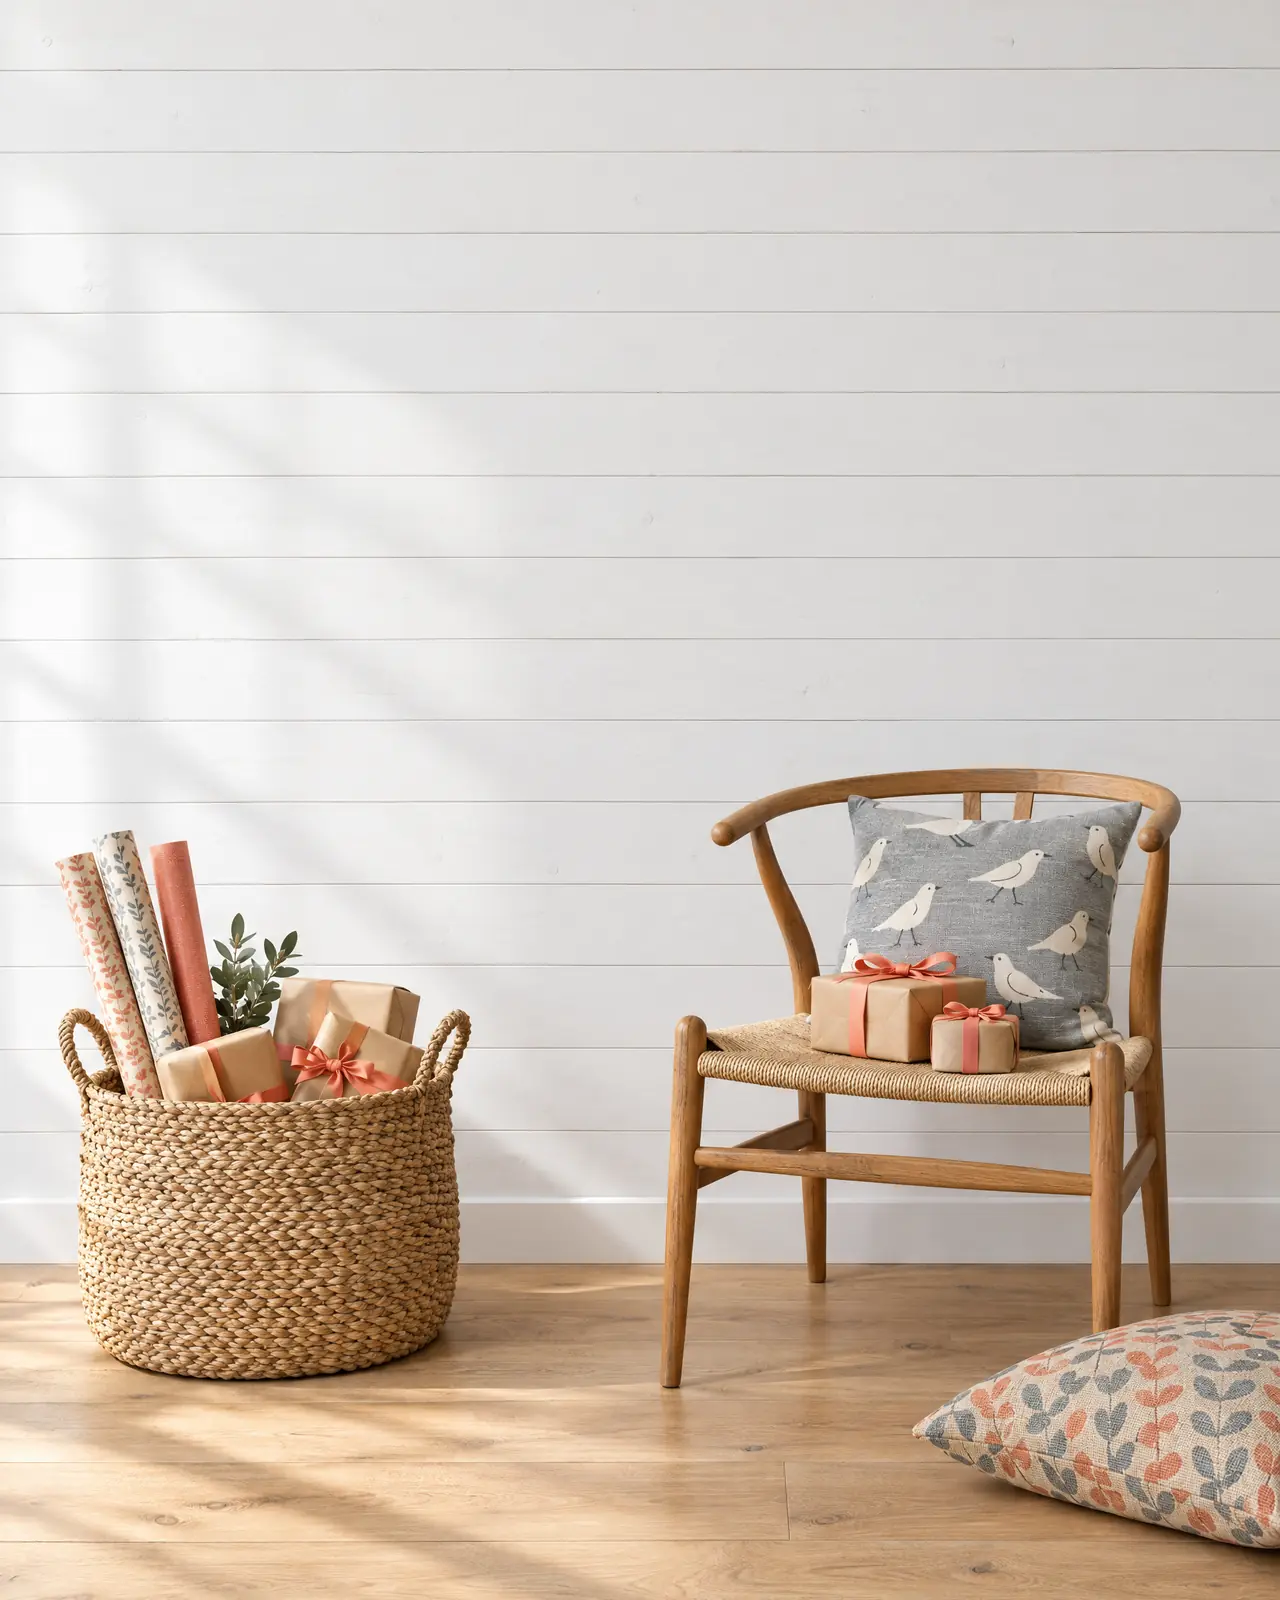
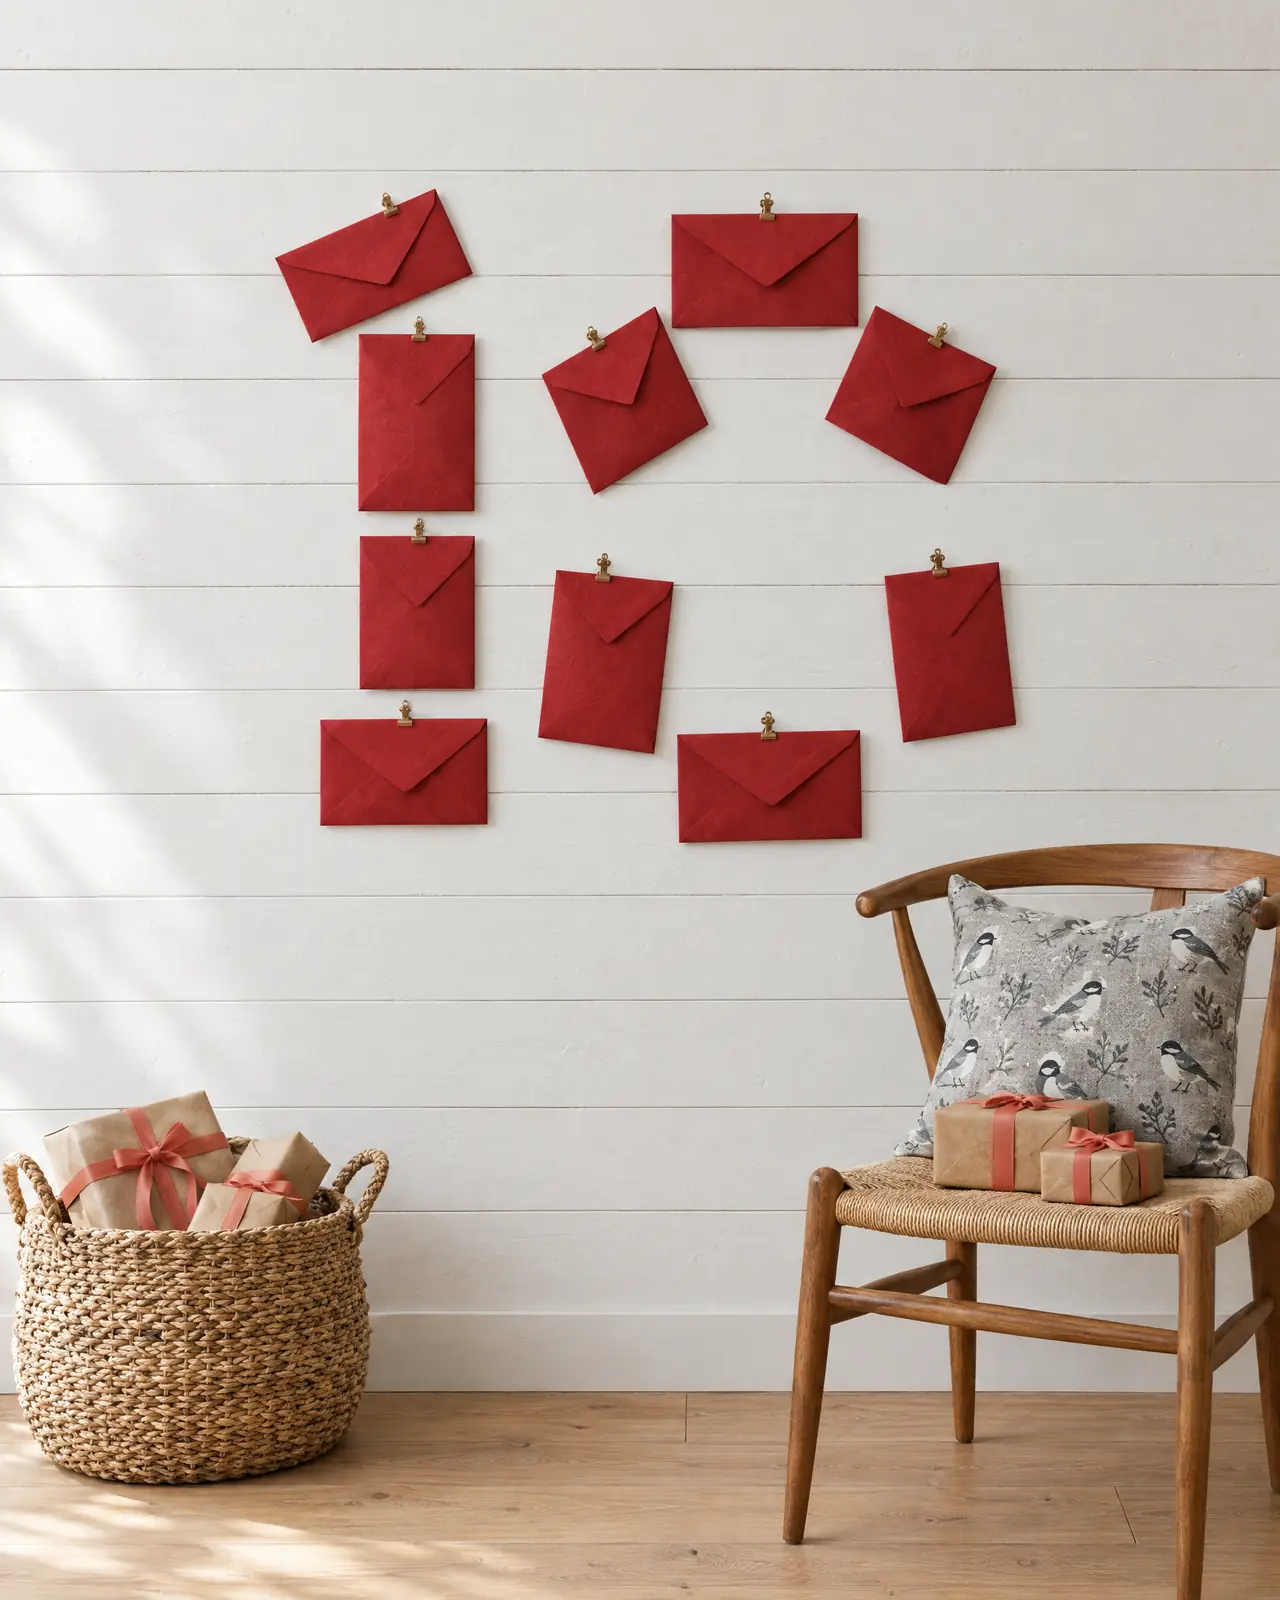
Rebuild anniversary envelopes from a real photo, drop demo note
Ten real red envelopes with brass clips form the number 10 in a
Higgsfield photo; code only adds numbers, today's glow, a card pulled
out of each opened envelope and a faded look for missed ones. Remove the
"switch to mobile" note under the demo, the toggle says it already.

diff --git a/index.html b/index.html
@@ -553,40 +553,31 @@
   @keyframes vzkDone { from { opacity: 0; transform: translateY(10px); } }
   .demo .scene.vzk-scene.finale .vzk-head { opacity: 0; }
   @media (prefers-reduced-motion: reduce) { .demo .vzk-col.just, .demo .vzk-all, .demo .vzk-pol.today, .demo .vzk.just, .demo .vzk-done { animation: none; } }
-  /* téma: Obálky ve tvaru výročí (stěna z Higgsfieldu, obálky v kódu) */
-  .demo[data-theme="obalky"] { --d-bg: #f6f3ee; --d-ink: #2b2523; --d-ink-2: #6d625c; --d-today: #d9343a; --d-today-ink: #fff; --d-btn: #d9343a; --d-btn-ink: #fff; --d-font: 'Inter', 'Inter Fallback', Arial, sans-serif; --d-card: #fff; --d-card-line: #e7e0d6; }
+  /* téma: Deset let, deset obálek (fotka obálek z Higgsfieldu, otevírání v kódu) */
+  .demo[data-theme="obalky"] { --d-bg: #f6f3ee; --d-ink: #2b2523; --d-ink-2: #6d625c; --d-today: #b3262c; --d-today-ink: #fff; --d-btn: #b3262c; --d-btn-ink: #fff; --d-font: 'Inter', 'Inter Fallback', Arial, sans-serif; --d-card: #fff; --d-card-line: #e7e0d6; }
   .demo[data-theme="obalky"] .d-title { font-weight: 900; letter-spacing: -0.03em; }
   .demo[data-theme="obalky"] .d-btn { border-radius: 100px; }
   .demo[data-theme="obalky"] .d-finale { top: auto; bottom: 12px; background: rgba(43,37,35,.82); }
-  .demo .scene.obl-scene { aspect-ratio: 4 / 5; max-width: 480px; background: #ece8e1 url('img/obalky-stena.webp') center / cover no-repeat; perspective: 1400px; }
-  .demo .obl { --e: #d9343a; position: absolute; padding: 0; border: 0; background: none; font: inherit; rotate: var(--rot); filter: drop-shadow(0 6px 6px rgba(60,30,20,.28)); transition: translate .2s ease; cursor: pointer; transform-style: preserve-3d; }
-  .demo .obl:hover { translate: 0 -3px; }
-  .demo .obl > span { position: absolute; display: block; }
-  .demo .obl-back { inset: 0; border-radius: 3px; background: color-mix(in srgb, var(--e) 82%, #000); }
-  .demo .obl-card { left: 8%; right: 8%; top: 10%; bottom: 8%; border-radius: 2px; background: #fffaf3; display: grid !important; place-items: center; color: var(--e); transition: translate .55s cubic-bezier(.3,1.4,.5,1) .25s; }
-  .demo .obl-card svg { width: 46%; max-width: 30px; height: auto; }
-  .demo .obl-front { inset: 0; border-radius: 3px; background: linear-gradient(160deg, color-mix(in srgb, var(--e) 92%, #fff), var(--e)); clip-path: polygon(0 0, 50% 46%, 100% 0, 100% 100%, 0 100%); }
-  .demo .obl-front::after { content: ""; position: absolute; inset: 0; background: linear-gradient(to top right, transparent calc(50% - 1px), rgba(0,0,0,.1) 50%, transparent calc(50% + 1px)) left bottom / 50% 54% no-repeat, linear-gradient(to top left, transparent calc(50% - 1px), rgba(0,0,0,.1) 50%, transparent calc(50% + 1px)) right bottom / 50% 54% no-repeat; }
-  .demo .obl-flap { left: 0; right: 0; top: 0; height: 62%; background: linear-gradient(180deg, color-mix(in srgb, var(--e) 88%, #fff), color-mix(in srgb, var(--e) 94%, #000)); clip-path: polygon(0 0, 100% 0, 50% 100%); transform-origin: 50% 0; transition: transform .5s ease; z-index: 2; }
-  .demo .obl.sirka .obl-flap { height: 70%; }
-  .demo .obl-n { right: 8%; bottom: 7%; z-index: 3; color: #fff; font-family: 'Inter', Arial, sans-serif; font-size: clamp(13px, 1.8vw, 19px); font-weight: 800; line-height: 1; text-shadow: 0 1px 2px rgba(0,0,0,.2); }
-  .demo .obl-clip { left: 50%; top: -6px; z-index: 4; width: 9px; height: 22px; margin-left: -4.5px; border: 2px solid #b89a52; border-radius: 6px; }
-  .demo .obl.open .obl-flap { transform: rotateX(180deg); z-index: 0; filter: brightness(.82); }
-  .demo .obl.open .obl-card { translate: 0 -42%; }
-  .demo .obl.open .obl-clip { display: none; }
-  .demo .obl.locked { --e: #d9343a; }
-  .demo .obl.missed { --e: #c9b3ad; filter: drop-shadow(0 3px 4px rgba(60,30,20,.15)); }
-  .demo .obl.missed .obl-n { text-decoration: line-through; color: #f4ece8; }
-  .demo .obl.today { --e: #e6453b; animation: oblWiggle 2.4s ease-in-out infinite; filter: drop-shadow(0 0 14px rgba(255,190,60,.9)) drop-shadow(0 6px 6px rgba(60,30,20,.3)); }
-  .demo .obl.today .obl-clip { border-color: #e4bd57; }
-  @keyframes oblWiggle { 0%, 70%, 100% { rotate: var(--rot); } 76% { rotate: calc(var(--rot) - 4deg); } 82% { rotate: calc(var(--rot) + 4deg); } 88% { rotate: calc(var(--rot) - 2deg); } 94% { rotate: var(--rot); } }
-  .demo .obl.just .obl-flap { animation: oblFlap .5s ease both; }
-  @keyframes oblFlap { from { transform: rotateX(0); } to { transform: rotateX(180deg); } }
-  .demo .obl.just .obl-card { animation: oblCard .6s cubic-bezier(.3,1.4,.5,1) .35s both; }
-  @keyframes oblCard { from { translate: 0 0; } to { translate: 0 -42%; } }
-  .demo .obl-done { position: absolute; left: 50%; top: 47%; z-index: 5; padding: 8px 22px; translate: -50% 0; rotate: -3deg; background: rgba(227,208,168,.92); color: #5a4126; font-family: 'Inter', Arial, sans-serif; font-size: clamp(14px, 2vw, 20px); font-weight: 800; letter-spacing: .02em; box-shadow: 0 3px 8px rgba(0,0,0,.15); clip-path: polygon(2% 0, 98% 4%, 100% 100%, 0 96%); animation: oblDone .6s .4s ease both; }
+  .demo .scene.obl-scene { aspect-ratio: 4 / 5; max-width: 480px; background: #ece8e1 url('img/obalky-stena.webp') center / cover no-repeat; }
+  .demo .obl { position: absolute; z-index: 2; padding: 0; border: 0; border-radius: 4px; background: transparent; font: inherit; cursor: pointer; transition: box-shadow .2s ease; }
+  .demo .obl:hover { box-shadow: 0 0 0 2px rgba(255,255,255,.85), 0 8px 18px rgba(60,20,10,.25); }
+  .demo .obl-n { position: absolute; right: 10%; bottom: 10%; display: flex; align-items: center; gap: 3px; color: #fff; font-family: 'Inter', Arial, sans-serif; font-size: clamp(12px, 1.7vw, 17px); font-weight: 800; line-height: 1; text-shadow: 0 1px 3px rgba(0,0,0,.35); rotate: var(--rot); }
+  .demo .obl-n svg { width: 11px; height: 11px; opacity: .85; }
+  .demo .obl.missed { backdrop-filter: grayscale(1) brightness(1.75) contrast(.6); -webkit-backdrop-filter: grayscale(1) brightness(1.75) contrast(.6); }
+  .demo .obl.missed .obl-n { text-decoration: line-through; opacity: .8; }
+  .demo .obl.today { background: radial-gradient(closest-side, rgba(255,214,120,.55), rgba(255,214,120,0)); box-shadow: 0 0 0 2px #fff, 0 0 0 4px #b3262c, 0 0 28px 8px rgba(255,210,110,.75); animation: oblGlow 1.8s ease-in-out infinite; }
+  .demo .obl.today::after { content: "Dnes"; position: absolute; left: 50%; bottom: calc(100% + 9px); translate: -50% 0; padding: 3px 8px; border-radius: 4px; background: #b3262c; color: #fff; font-family: 'Inter', Arial, sans-serif; font-size: 10px; font-weight: 800; letter-spacing: .1em; text-transform: uppercase; }
+  @keyframes oblGlow { 50% { box-shadow: 0 0 0 2px #fff, 0 0 0 4px rgba(179,38,44,.5), 0 0 12px 3px rgba(255,210,110,.45); } }
+  /* opened: a cream card pulled halfway out of the envelope */
+  .demo .obl-card { position: absolute; left: 14%; right: 14%; top: 8%; height: 78%; rotate: var(--rot); translate: 0 -56%; z-index: -1; clip-path: inset(-20% -20% 46% -20%); display: grid; place-items: center; border-radius: 2px; background: #fffaf2; box-shadow: 0 4px 10px rgba(0,0,0,.18); }
+  .demo .obl-card > span { display: grid; place-items: center; width: 24px; height: 24px; border-radius: 50%; background: #b3262c; color: #fff; }
+  .demo .obl-card svg { width: 13px; height: 13px; }
+  .demo .obl.open { z-index: 1; }
+  .demo .obl.just .obl-card { animation: oblPull .7s cubic-bezier(.3,1.4,.5,1) both; }
+  @keyframes oblPull { from { translate: 0 0; opacity: 0; } 30% { opacity: 1; } to { translate: 0 -56%; } }
+  .demo .obl-done { position: absolute; left: 50%; top: 56%; z-index: 5; padding: 8px 22px; translate: -50% 0; rotate: -3deg; background: rgba(227,208,168,.94); color: #5a4126; font-family: 'Inter', Arial, sans-serif; font-size: clamp(14px, 2vw, 20px); font-weight: 800; letter-spacing: .02em; box-shadow: 0 3px 8px rgba(0,0,0,.15); clip-path: polygon(2% 0, 98% 4%, 100% 100%, 0 96%); animation: oblDone .6s .4s ease both; }
   @keyframes oblDone { from { opacity: 0; translate: -50% -10px; } }
-  @media (prefers-reduced-motion: reduce) { .demo .obl.today, .demo .obl.just .obl-flap, .demo .obl.just .obl-card, .demo .obl-done { animation: none; } .demo .obl-flap, .demo .obl-card { transition: none; } }
+  @media (prefers-reduced-motion: reduce) { .demo .obl.today, .demo .obl.just .obl-card, .demo .obl-done { animation: none; } }
 
   /* téma: Sněhulák a sobi (vymyšlené, kreslené) */
   .demo[data-theme="snehulak"] { --d-bg: #0f3d2e; --d-ink: #f4f7ff; --d-ink-2: #bfd5c8; --d-today: #ffd21f; --d-today-ink: #132747; --d-btn: #DA2A49; --d-btn-ink: #fff; --d-font: 'Inter', 'Inter Fallback', Arial, sans-serif; --d-card: rgba(255,255,255,.08); --d-card-line: rgba(255,255,255,.16); }
@@ -1414,7 +1405,6 @@
     <div class="d-reveal" id="demo-reveal" hidden></div>
   </div>
   </div>
-  <p class="demo-note">Celý kalendář je responzivní: přepněte na Mobil a uvidíte ho tak, jak ho uvidí zákazník v telefonu.</p>
 
 
 </section>
@@ -1938,22 +1928,23 @@
     if (finale) h += '<div class="vzk-done" aria-hidden="true"><b>24.–26. 9.</b><span>Velký výprodej pokladů ze showroomu a skladu</span></div>';
     return h + '<button type="button" class="d-finale" data-review-id="demo-finale">' + T.finale + '</button></div>';
   }
-  // Obálky ve tvaru výročí: stěna z Higgsfieldu, obálky v kódu poskládané do čísla 10 (scéna 1000 × 1250)
-  var OBALKY = [[188, 112, 102, 66, -16], [304, 77, 94, 110, 2], [492, 70, 246, 88, -1], [449, 176, 98, 139, 1.5], [691, 176, 98, 139, -2], [304, 201, 94, 146, -1], [449, 329, 98, 124, -1], [691, 329, 98, 124, 2], [304, 362, 94, 175, 1], [492, 464, 246, 95, -1]];
+  // Obálky ve tvaru výročí: fotka z Higgsfieldu, na stěně 10 skutečných obálek tvoří číslo 10; otevírání v kódu
+  // [left, top, width, height v %, natočení obálky ve stupních]
+  var OBALKY = [[21.25, 11.8, 15.6, 9.4, -20], [28, 20.7, 9.1, 11.3, 0], [28, 33.3, 9.1, 9.7, 0], [25, 44.7, 13.1, 6.9, 0], [52.5, 13, 14.5, 7.5, 0], [64.5, 19.3, 13.2, 10.7, 25], [69.1, 35, 10.1, 11.3, -5], [53, 45.5, 14.2, 7.1, -2], [42.1, 35.5, 10.4, 11.5, 4], [42.5, 19.3, 12.6, 11.5, -25]];
   DARKY.obalky = seznam([['sleva', 'Výroční sleva 10 %'], ['doprava', 'Doprava zdarma'], ['darek', 'Dárek k objednávce'], ['sleva', 'Sleva 20 % na bestsellery'], ['akce', 'Výroční akce 2 + 1'], ['prodejna', 'Poradenství zdarma na prodejně'], ['sleva', 'Sleva 15 % na novinky'], ['doprava', 'Doprava zdarma'], ['darek', 'Překvapení pro věrné zákazníky'], ['sleva', 'Sleva 30 % na celý nákup']], 10, 'VY');
-  TEMATA.obalky = { dni: 10, dnes: 6, layout: 'obalky', top: '', eyebrow: 'Výročí e‑shopu · 10 let', t: 'Deset let, deset obálek', l: 'Na' + NB + 'stěně visí obálky poskládané do' + NB + 'čísla našeho výročí. Každý den otevřete jednu. Čím větší obálka, tím větší dárek. Ta největší čeká desátý den.', btn: 'Otevřít dnešní obálku', den: 'obálka', tip: 'Klikněte na' + NB + 'obálku, která se' + NB + 'třese, a' + NB + 'otevřete ji.', finale: 'Ukázat 10. den: všechny obálky', odkryto: { 1: true, 2: true, 3: true, 5: true },
-    umi: ['Otevřít jde jen <strong>dnešní obálku</strong>. Propásnutá zůstane zavřená a vybledne.', 'Tvar podle výročí: <strong>10 let, 10 obálek</strong>, ale i' + NB + '5, 15 nebo 30. Větší obálka znamená větší dárek.', 'Odkrytí <strong>za e&#8209;mail, nebo bez něj</strong>. S' + NB + 'e&#8209;mailem sbíráte kontakty.', 'Sleva, doprava zdarma, dárek, služba na' + NB + 'prodejně, plošná akce. Kód dárku jde zkopírovat jedním klikem.', 'Měření v' + NB + 'GTM a' + NB + 'Google Analytics po' + NB + 'souhlasu s' + NB + 'cookies. Česky i' + NB + 'v' + NB + 'dalších jazycích.'] };
+  TEMATA.obalky = { dni: 10, dnes: 6, layout: 'obalky', top: '', eyebrow: 'Výročí e‑shopu · 10 let', t: 'Deset let, deset obálek', l: 'Na' + NB + 'stěně visí deset obálek poskládaných do' + NB + 'čísla našeho výročí. Každý den otevřete jednu a' + NB + 'vytáhnete z' + NB + 'ní dárek. Desátý den čeká ten největší.', btn: 'Otevřít dnešní obálku', den: 'obálka', tip: 'Klikněte na' + NB + 'obálku, která svítí, a' + NB + 'vytáhněte z' + NB + 'ní dárek.', finale: 'Ukázat 10. den: všechny obálky', odkryto: { 1: true, 2: true, 3: true, 5: true },
+    umi: ['Otevřít jde jen <strong>dnešní obálku</strong>. Propásnutá zůstane zavřená a zešedne.', 'Tvar podle výročí: <strong>10 let, 10 obálek</strong>, ale i' + NB + '5, 15 nebo 30 dní. Poslední den největší dárek.', 'Odkrytí <strong>za e&#8209;mail, nebo bez něj</strong>. S' + NB + 'e&#8209;mailem sbíráte kontakty.', 'Sleva, doprava zdarma, dárek, služba na' + NB + 'prodejně, plošná akce. Kód dárku jde zkopírovat jedním klikem.', 'Měření v' + NB + 'GTM a' + NB + 'Google Analytics po' + NB + 'souhlasu s' + NB + 'cookies. Česky i' + NB + 'v' + NB + 'dalších jazycích.'] };
   function obalkyHTML() {
     var T = TEMATA.obalky, D = DARKY.obalky, d, h = '<div class="scene obl-scene' + (finale ? ' finale' : '') + '" role="group" aria-label="Obálky kalendáře">';
     for (d = 1; d <= T.dni; d++) {
       var o = OBALKY[d - 1], st = stav(d);
-      h += '<button type="button" class="obl ' + st + (padajici === d ? ' just' : '') + (o[2] > 200 ? ' sirka' : '') + '" data-den="' + d + '" data-review-id="demo-obalka-' + d + '" aria-label="Obálka ' + d + ': ' + popisek(st) + '" style="left:' + (o[0] / 10) + '%;top:' + (o[1] / 12.5) + '%;width:' + (o[2] / 10) + '%;height:' + (o[3] / 12.5) + '%;--rot:' + o[4] + 'deg">' +
-        '<span class="obl-back"></span><span class="obl-card">' + (st === 'open' ? ICO[D[d - 1].typ] : '') + '</span><span class="obl-front"></span><span class="obl-flap"></span><span class="obl-n">' + d + '</span><span class="obl-clip"></span></button>';
+      h += '<button type="button" class="obl ' + st + (padajici === d ? ' just' : '') + '" data-den="' + d + '" data-review-id="demo-obalka-' + d + '" aria-label="Obálka ' + d + ': ' + popisek(st) + '" style="left:' + o[0] + '%;top:' + o[1] + '%;width:' + o[2] + '%;height:' + o[3] + '%;--rot:' + o[4] + 'deg">' +
+        (st === 'open' ? '<span class="obl-card"><span>' + ICO[D[d - 1].typ] + '</span></span>' : '') +
+        '<span class="obl-n">' + (st === 'locked' ? ICO.zamek : '') + d + '</span></button>';
     }
     if (finale) h += '<div class="obl-done" aria-hidden="true">Děkujeme za 10 let</div>';
     return h + '<button type="button" class="d-finale" data-review-id="demo-finale">' + T.finale + '</button></div>';
   }
-
   // Víkendy na chalupě: malovaná mapa z Higgsfieldu (1792 × 2240), trasa, špendlíky a turista v kódu; 1 okénko = 1 víkend
   var OKNA_CH = { 1: [594, 1826, 347, 246], 2: [134, 1378, 918, 302], 3: [806, 1154, 314, 123], 4: [930, 918, 235, 112], 5: [538, 638, 246, 224], 6: [918, 314, 560, 426], 7: [627, 213, 134, 190], 8: [941, 18, 90, 150] };
   // the sandy footpath in the painting, bottom to top (image px); stops snap to its nearest point

diff --git a/docs/vzhledy/koncepty.md b/docs/vzhledy/koncepty.md
@@ -129,7 +129,7 @@ Hand-painted illustrated map of a peaceful Central European summer countryside s
 ---
 
 ## 5. Navyše, pre akýkoľvek e-shop: „Obálky ve tvaru výročí“
-**Stav:** postavené (vzhľad `obalky`, „Deset let, deset obálek“). Stena s interiérom z Higgsfieldu (GPT Image 2.5, high, 2k, 2,75 kreditu, prvý pokus, `img/obalky-stena.webp`). 10 obálok v kóde je poskladaných do čísla 10 nad stoličkou; väčšia obálka = väčší dárok, najväčšia je 10. deň. Otvorenie: chlopňa sa preklopí a vysunie sa kartička. Zmeškaná obálka vybledne. Koniec: všetky otvorené a páska „Děkujeme za 10 let“.
+**Stav:** prerobené (vzhľad `obalky`). Prvá verzia s obálkami kreslenými v kóde pôsobila infantilne. Teraz je to fotka z Higgsfieldu (GPT Image 2.5, high, 2k, 2,75 kreditu, prvý pokus, `img/obalky-stena.webp`): desať skutočných červených obálok s mosadznými štipcami tvorí číslo 10 nad stoličkou. V kóde sú len číslo, žiara dnešnej obálky so štítkom „Dnes“, kartička vysunutá z otvorenej obálky, vyblednutie zmeškanej obálky a páska „Děkujeme za 10 let“ na konci.
 
 **Klient (anonymne):** e-shop alebo predajňa, ktorá slávi výročie (5, 10, 15 alebo 30 rokov).
 **Príležitosť:** narodeniny firmy. Univerzálny nástupca „Slavíme 30 let“.
